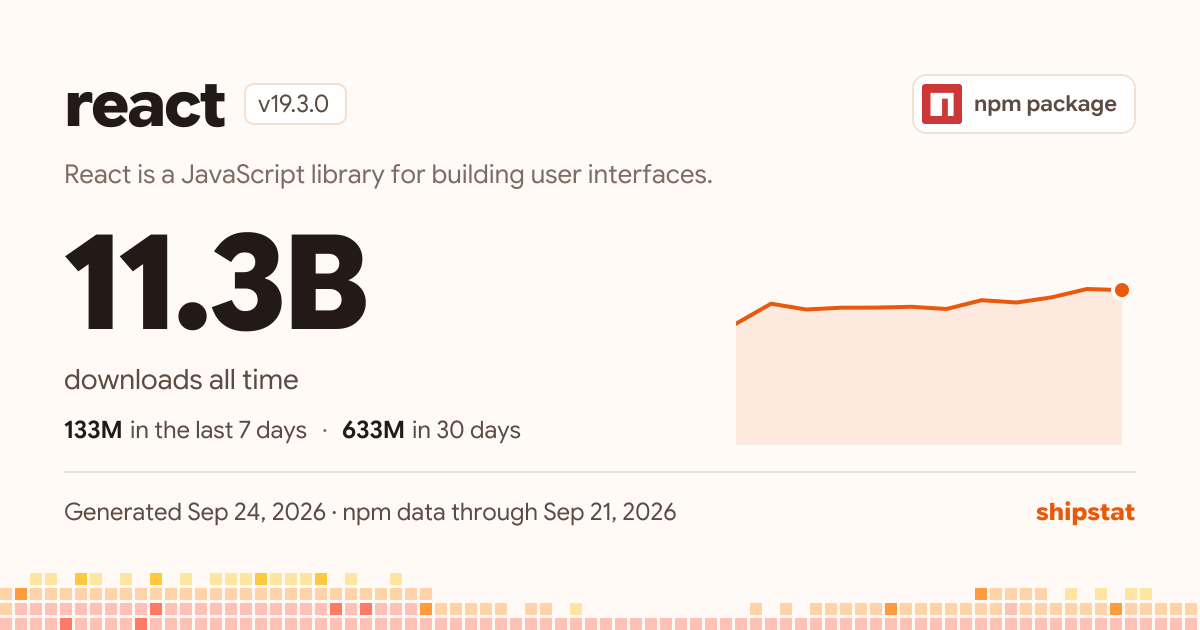
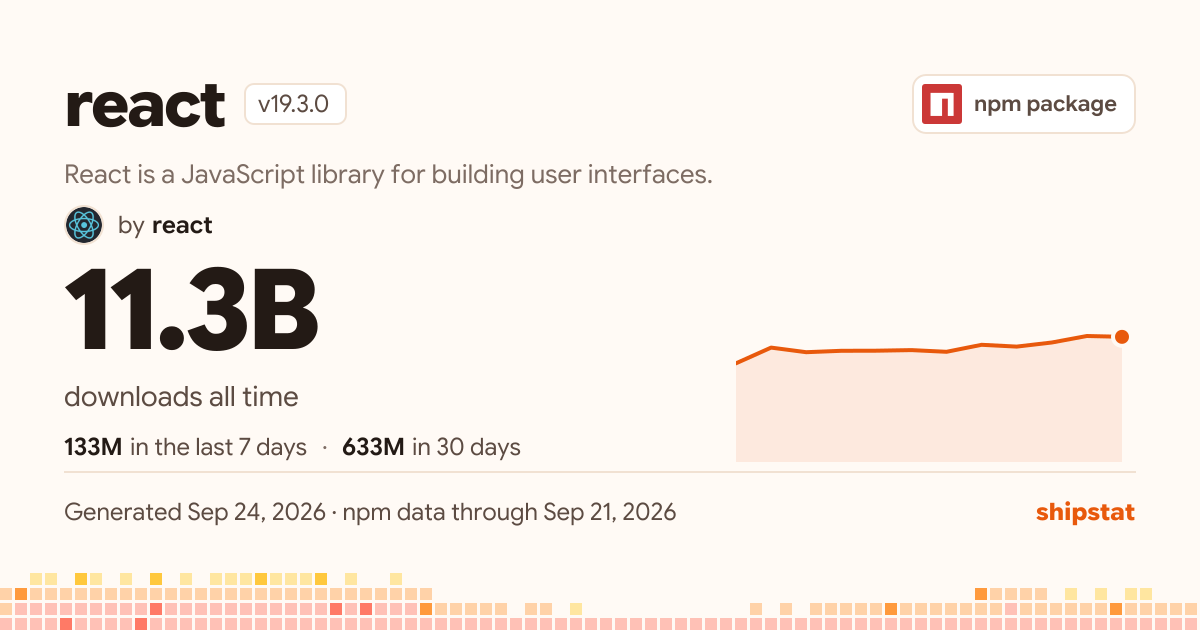
Update README share cards with the developer credit
- Regenerate the wide (react) and square (zod) cards: they now show
  "by <name>" with the GitHub avatar
- Mention the credit in the share-card description and image alt text

diff --git a/README.md b/README.md
@@ -58,13 +58,14 @@ shipstat shows only what npm actually reports, and explains what the numbers mea
 Every package gets its own card. Paste a shipstat link on X, LinkedIn, Slack or Discord and it unfurls by
 itself. The card also downloads as a PNG, wide or square.
 
-Each card leads with all-time downloads, adds the last 7 and 30 days and a 12-week sparkline, and is marked as an
-npm package. Since the numbers change, every card says when it was generated and how far npm's data goes.
+Each card leads with all-time downloads, adds the last 7 and 30 days and a 12-week sparkline, is marked as an npm
+package, and credits the developer, with their name and GitHub avatar. Since the numbers change, every card says
+when it was generated and how far npm's data goes.
 
 <p align="center">
-  <img src="docs/images/card-wide.png" alt="Wide share card for react: 11.3B downloads all time, 133M in the last 7 days, 633M in 30 days, generated Sep 24, 2026 with npm data through Sep 21, 2026" width="64%">
+  <img src="docs/images/card-wide.png" alt="Wide share card for react, by react: 11.3B downloads all time, 133M in the last 7 days, 633M in 30 days, generated Sep 24, 2026 with npm data through Sep 21, 2026" width="64%">
   &nbsp;
-  <img src="docs/images/card-square.png" alt="Square share card for zod: 8.94B downloads all time" width="33.5%">
+  <img src="docs/images/card-square.png" alt="Square share card for zod, by Colin McDonnell: 8.94B downloads all time" width="33.5%">
 </p>
 
 Put it in your README with one line:
